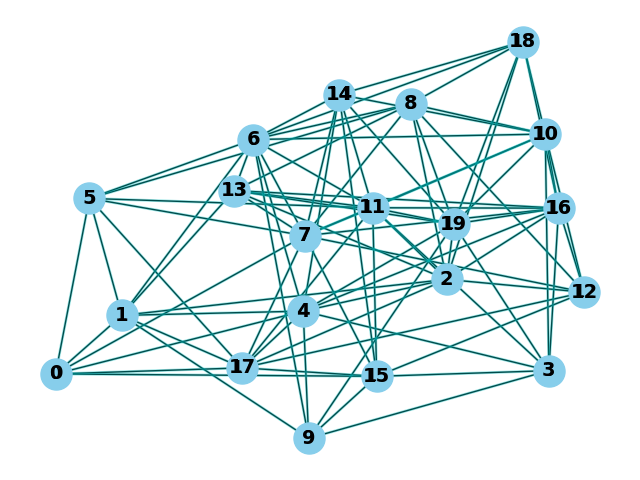
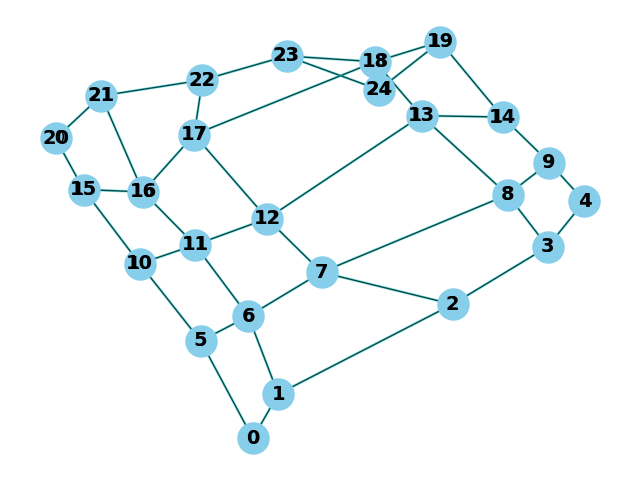
[update] change network topology

diff --git a/Consensus_base/demo_consensus.py b/Consensus_base/demo_consensus.py
@@ -1,6 +1,7 @@
 import numpy as np
 import matplotlib.pyplot as plt
 import matplotlib.animation as animation
+from matplotlib.collections import LineCollection
 
 np.random.seed(1) # Set random seed
 
@@ -10,83 +11,87 @@ class network():
         self.L = np.empty
 
     def Laplacian(self) -> np.ndarray:
-        # Set graph Laplacian matrix
-        # If you want to change network, please edit the below matrix 'a'
-        a = np.array([[0, 1, 0, 0, 1, 1, 0, 1, 0, 0, 0, 0, 0, 0, 0, 1, 0, 1, 0, 0],
-                      [1, 0, 1, 0, 1, 1, 1, 0, 0, 1, 0, 0, 0, 1, 0, 0, 0, 1, 0, 0],
-                      [0, 1, 0, 0, 1, 0, 0, 0, 1, 0, 0, 1, 1, 1, 0, 0, 1, 1, 1, 1],
-                      [0, 0, 0, 0, 1, 0, 0, 0, 0, 1, 1, 1, 0, 0, 0, 1, 1, 0, 0, 1],
-                      [1, 1, 1, 1, 0, 0, 1, 0, 0, 1, 0, 0, 0, 0, 1, 0, 1, 1, 0, 1],
-                      [1, 1, 0, 0, 0, 0, 1, 1, 1, 0, 0, 1, 0, 0, 0, 0, 0, 1, 0, 0],
-                      [0, 1, 0, 0, 1, 1, 0, 1, 1, 1, 1, 1, 0, 1, 1, 0, 0, 0, 1, 0],
-                      [1, 0, 0, 0, 0, 1, 1, 0, 1, 0, 1, 1, 1, 1, 1, 1, 1, 1, 0, 0],
-                      [0, 0, 1, 0, 0, 1, 1, 1, 0, 0, 1, 0, 1, 1, 0, 0, 0, 0, 1, 1],
-                      [0, 1, 0, 1, 1, 0, 1, 0, 0, 0, 0, 0, 0, 0, 0, 1, 0, 0, 0, 1],
-                      [0, 0, 0, 1, 0, 0, 1, 1, 1, 0, 0, 1, 1, 0, 1, 0, 1, 0, 1, 1],
-                      [0, 0, 1, 1, 0, 1, 1, 1, 0, 0, 1, 0, 0, 1, 1, 1, 1, 1, 0, 1],
-                      [0, 0, 1, 0, 0, 0, 0, 1, 1, 0, 1, 0, 0, 0, 0, 1, 1, 1, 0, 0],
-                      [0, 1, 1, 0, 0, 0, 1, 1, 1, 0, 0, 1, 0, 0, 0, 0, 1, 0, 0, 1],
-                      [0, 0, 0, 0, 1, 0, 1, 1, 0, 0, 1, 1, 0, 0, 0, 1, 0, 0, 1, 1],
-                      [1, 0, 0, 1, 0, 0, 0, 1, 0, 1, 0, 1, 1, 0, 1, 0, 0, 1, 0, 0],
-                      [0, 0, 1, 1, 1, 0, 0, 1, 0, 0, 1, 1, 1, 1, 0, 0, 0, 0, 1, 1],
-                      [1, 1, 1, 0, 1, 1, 0, 1, 0, 0, 0, 1, 1, 0, 0, 1, 0, 0, 0, 0],
-                      [0, 0, 1, 0, 0, 0, 1, 0, 1, 0, 1, 0, 0, 0, 1, 0, 1, 0, 0, 1],
-                      [0, 0, 1, 1, 1, 0, 0, 0, 1, 1, 1, 1, 0, 1, 1, 0, 1, 0, 1, 0]])
-        A = a + a.T
+        def GridAdjMatrix(N):
+            n = int(np.sqrt(N))
+            if n**2 != N:
+                raise ValueError(f'the square root is not a natural number: sqrt({N}) = {np.sqrt(N)}')
+            
+            a = np.zeros((N, N))
+            for i in range(N):
+                if (i + 1) % n != 0 and i + 1 < N:
+                    a[i, i + 1] = 1
+                if i + n < N:
+                    a[i, i + n] = 1
+
+            weight = 0.01 + (2 - 0.01) * np.random.rand(N, N)
+            a = weight * a
+            A = a + a.T
+            return A
+
+        A = GridAdjMatrix(25)
         D = np.diag(np.sum(A, axis=0))
         L = D - A
 
         return L
 
 
-def Consensus(dimention: int, step: int) -> np.ndarray:
+def Consensus(dimension: int, step: int) -> (np.ndarray, np.ndarray):
     G = network()
-    L = G.Laplacian()
+    L, A = G.Laplacian()
     n = L.shape[0] # Get the number of nodes from matrix shape
-    x = np.zeros((n, dimention, step))
-    x[:, :, 0] = np.random.uniform(size=(n, dimention)) # Generate the state vector with random function
+    x = np.zeros((n, dimension, step))
+    x[:, :, 0] = np.random.uniform(size=(n, dimension)) # Generate the state vector with random function
     for k in range(1, step):
-        x[:, :, k] = x[:, :, k - 1] - 0.005 *  L @ x[:, :, k - 1] # Calculate control input
-    return x
+        x[:, :, k] = x[:, :, k - 1] - 0.05 *  L @ x[:, :, k - 1] # Calculate control input
+    return x, A
 
 
 def static_figure(x) -> None:
     plt.rcParams["font.size"] = 14
-    fig1 = plt.figure(figsize=(8, 6), tight_layout=True)
+    fig1 = plt.figure(figsize=(8, 8), tight_layout=True)
     ax1 = fig1.add_subplot(211)
     for i in range(x.shape[0]):
-        ax1.plot(x[i, 0, :], marker='o', markersize=1, label='Agent {}'.format(i))
+        ax1.plot(x[i, 0, :], label='Agent {}'.format(i))
     ax1.set_title("Agent state for x-axis")
     ax1.set_xlim(0, x.shape[2]-1)
     
     ax2 = fig1.add_subplot(212)
     for i in range(x.shape[0]):
-        ax2.plot(x[i, 1, :], marker='o', markersize=1, label='Agent {}'.format(i))
+        ax2.plot(x[i, 1, :], label='Agent {}'.format(i))
     ax2.set_title("Agent state for y-axis")
     ax2.set_xlim(0, x.shape[2]-1)
     
     fig1.savefig('Result.png')
 
 
-def RenderGIF(x, fps=40, interval=10) -> None:
+def RenderGIF(x, A, fps=30, interval=10) -> None:
     plt.rcParams["font.size"] = 14
     fig2 = plt.figure(figsize=(8, 8), tight_layout=True)
     ax3 = fig2.add_subplot(111)
     ax3.set_xlim(min(x[:, 0, 0]) - 0.1, max(x[:, 0, 0]) + 0.1)
     ax3.set_ylim(min(x[:, 1, 0]) - 0.1, max(x[:, 1, 0]) + 0.1)
     ax3.set_title("Agent Trajectory")
-    scatter_plots = [ax3.scatter(x[I, 0, 0], x[I, 1, 0], marker='o', s=100) for I in range(x.shape[0])] 
+    scatter_plots = [ax3.scatter(x[I, 0, 0], x[I, 1, 0], marker='o', s=100) for I in range(x.shape[0])]
+    lines = []
+
+    for i in range(A.shape[0]):
+        for j in range(A.shape[1]):
+            if A[i, j] > 0:
+                line, = ax3.plot([x[i, 0, 0], x[j, 0, 0]], [x[i, 1, 0], x[j, 1, 0]], 'k-', lw=1)
+                lines.append(line)
 
     def update(frame):
         for I in range(x.shape[0]):
             scatter_plots[I].set_offsets(np.column_stack([x[I, 0, frame], x[I, 1, frame]]))
-        return scatter_plots
+        for line, (i, j) in zip(lines, np.transpose(np.nonzero(A))):
+            line.set_data([x[i, 0, frame], x[j, 0, frame]], [x[i, 1, frame], x[j, 1, frame]])
+        return scatter_plots + lines
 
     anim = animation.FuncAnimation(fig2, update, frames=x.shape[2], interval=interval, blit=True)
     anim.save('Result.gif', writer='pillow', fps=fps)
 
 
 if __name__ == '__main__':
-    state = Consensus(2, 121)
-    RenderGIF(state)
+    state, adj_matrix = Consensus(2, 301)
+    RenderGIF(state, adj_matrix)
     static_figure(state)

diff --git a/Consensus_base/network_topology.py b/Consensus_base/network_topology.py
@@ -2,7 +2,7 @@ import networkx as nx
 import numpy as np
 import matplotlib.pyplot as plt
 
-from Consensus_base.demo_consensus import network
+from demo_consensus import network
 
 
 def draw_network():
